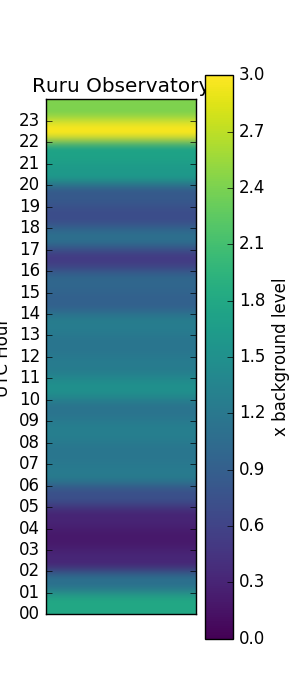
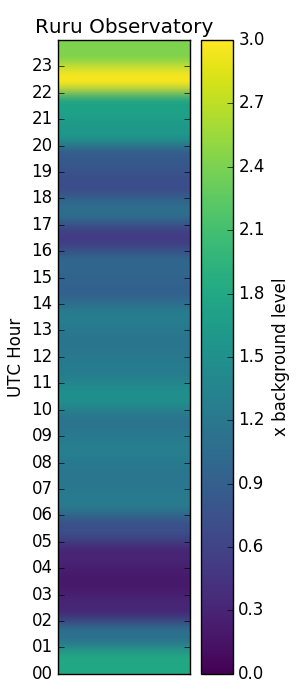
vertical heatmap updates for GOES and Ruru

diff --git a/dnacore_v3/plot_spark_goes.py b/dnacore_v3/plot_spark_goes.py
@@ -28,15 +28,20 @@ with open("GOES_16_1hrdx.csv", "r") as f:
         hours.append(hr)
         data.append(dd)
 
-
 # draw the heatmap
 # plt.figure(figsize=(5,1))
-fig, ax = plt.subplots(figsize=(5,1))
-ax.set_xticks(range(len(hours)))
-ax.set_xticklabels(hours)
-ax.set_yticks([])
+fig, ax = plt.subplots(figsize=(3,7))
+ax.set_yticks(range(len(hours)))
+ax.set_yticklabels(hours)
+ax.set_xticks([])
+ax.set_ylabel("UTC Hour")
 ax.set_title(title)
-ax.imshow(data, cmap='viridis', interpolation="hanning", vmin=minvalue, vmax=maxvalue)
+
+b = ax.imshow(data, cmap='viridis', interpolation="hanning", vmin=minvalue, vmax=maxvalue, extent=(0,5,0,24))
+cbar = ax.figure.colorbar(b, ax=ax)
+cbar.ax.set_ylabel("x background level")
+
+# plt.colorbar(b)
 fig.tight_layout()
 plt.savefig(savefile)
 plt.close('all')

diff --git a/dnacore_v3/plot_spark_ruru.py b/dnacore_v3/plot_spark_ruru.py
@@ -39,7 +39,7 @@ ax.set_xticks([])
 ax.set_ylabel("UTC Hour")
 ax.set_title(title)
 
-b = ax.imshow(data, cmap='viridis', interpolation="hanning", vmin=minvalue, vmax=maxvalue, extent=(0,7,0,24))
+b = ax.imshow(data, cmap='viridis', interpolation="hanning", vmin=minvalue, vmax=maxvalue, extent=(0,5,0,24))
 cbar = ax.figure.colorbar(b, ax=ax)
 cbar.ax.set_ylabel("x background level")
 
